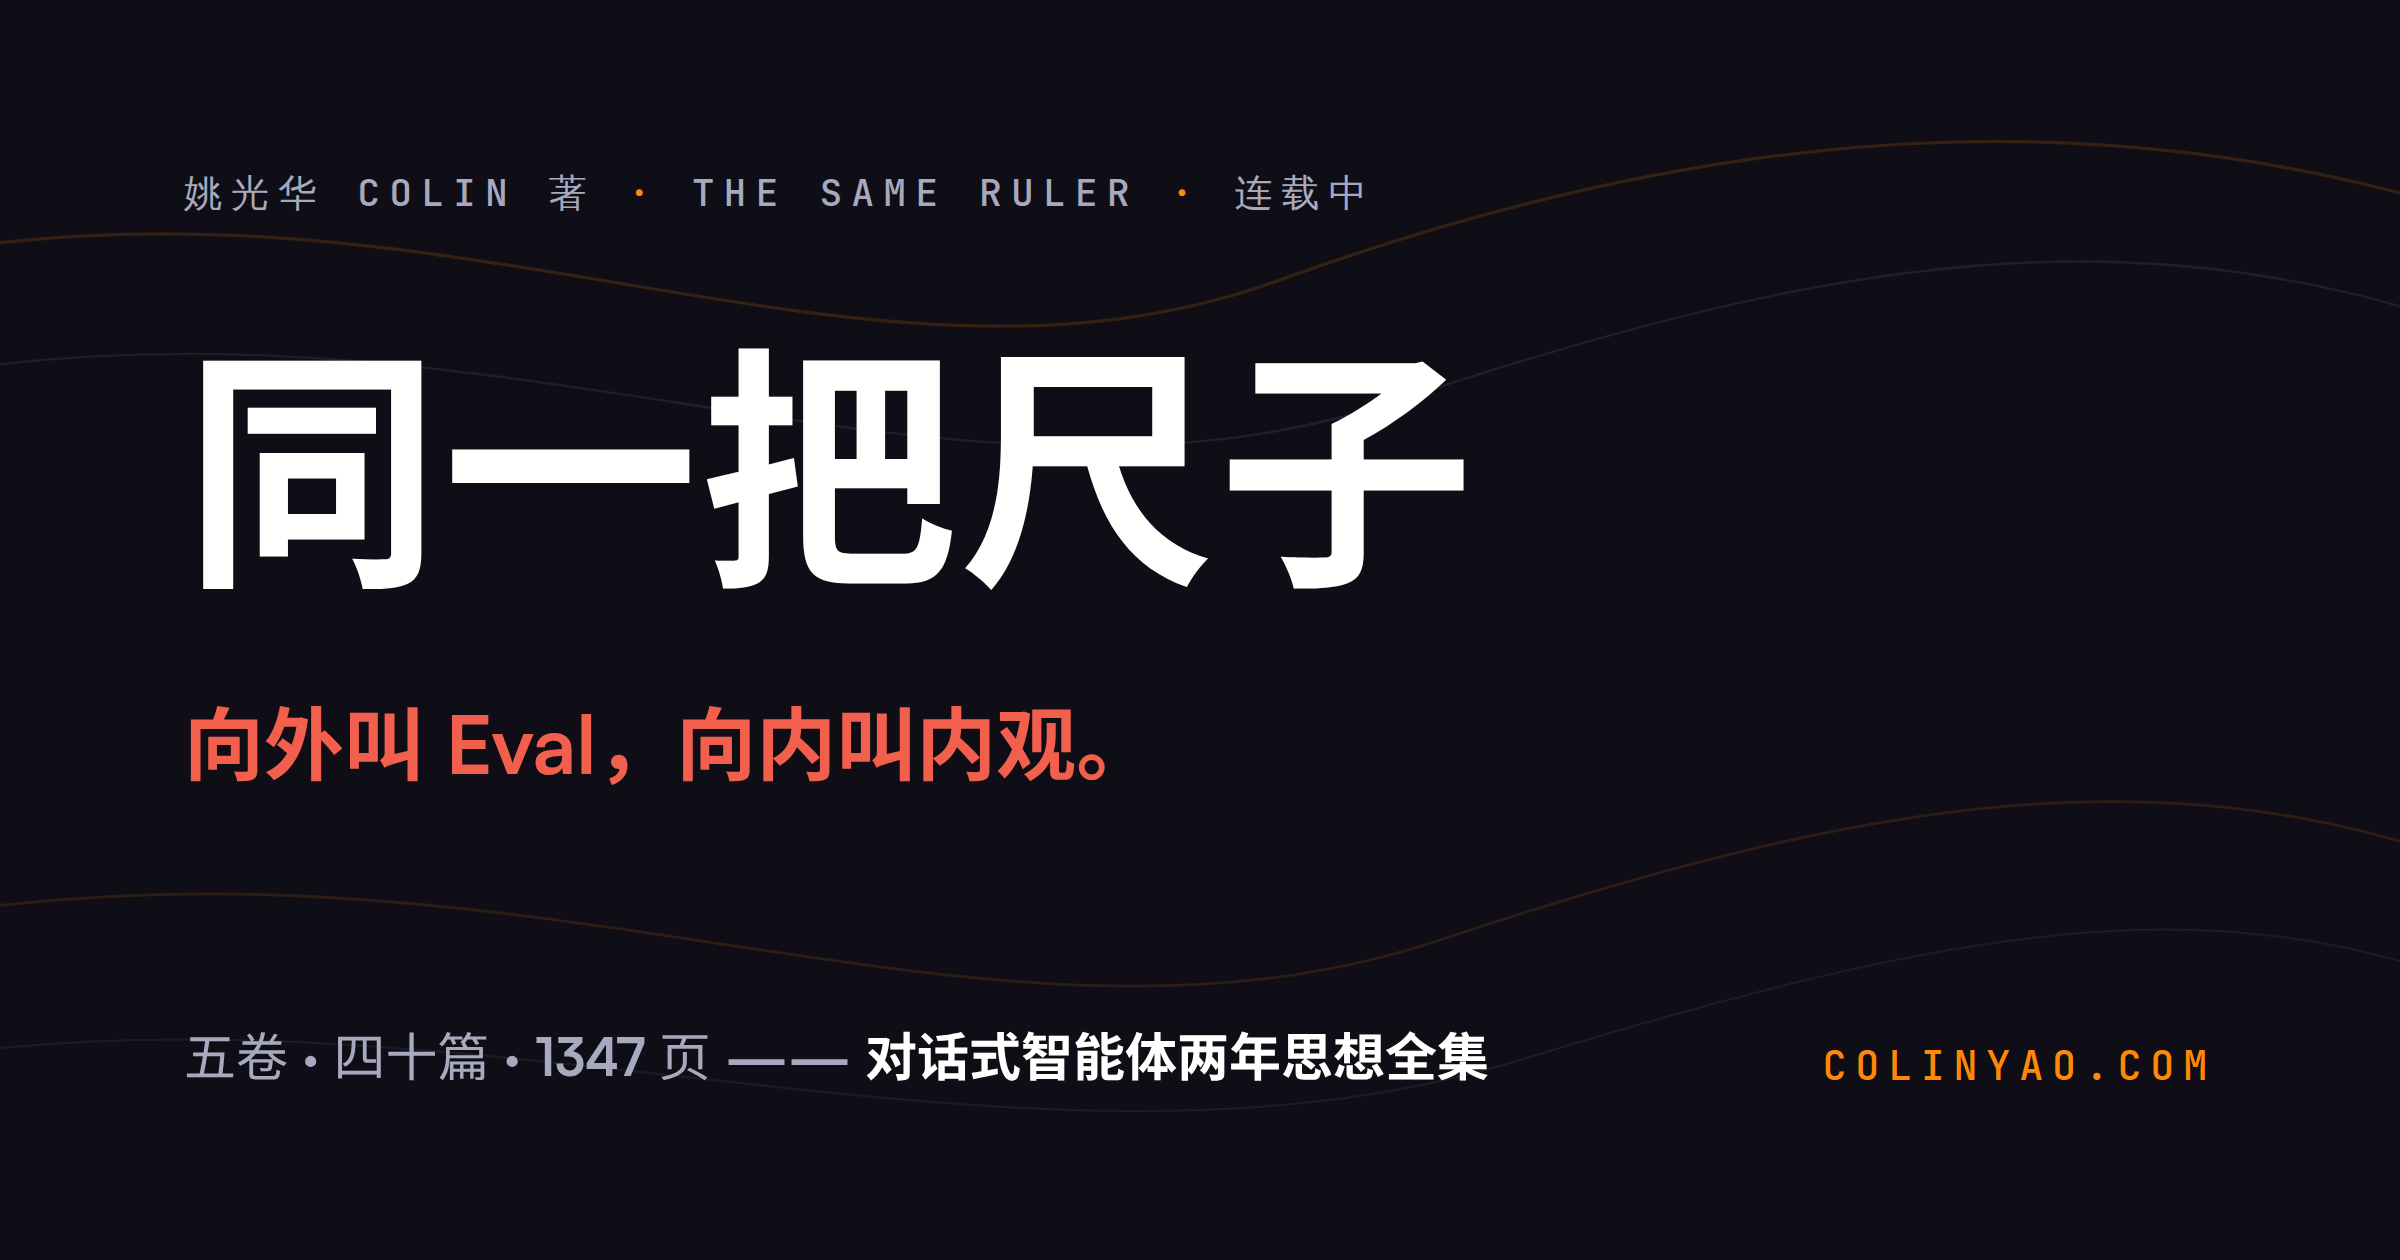
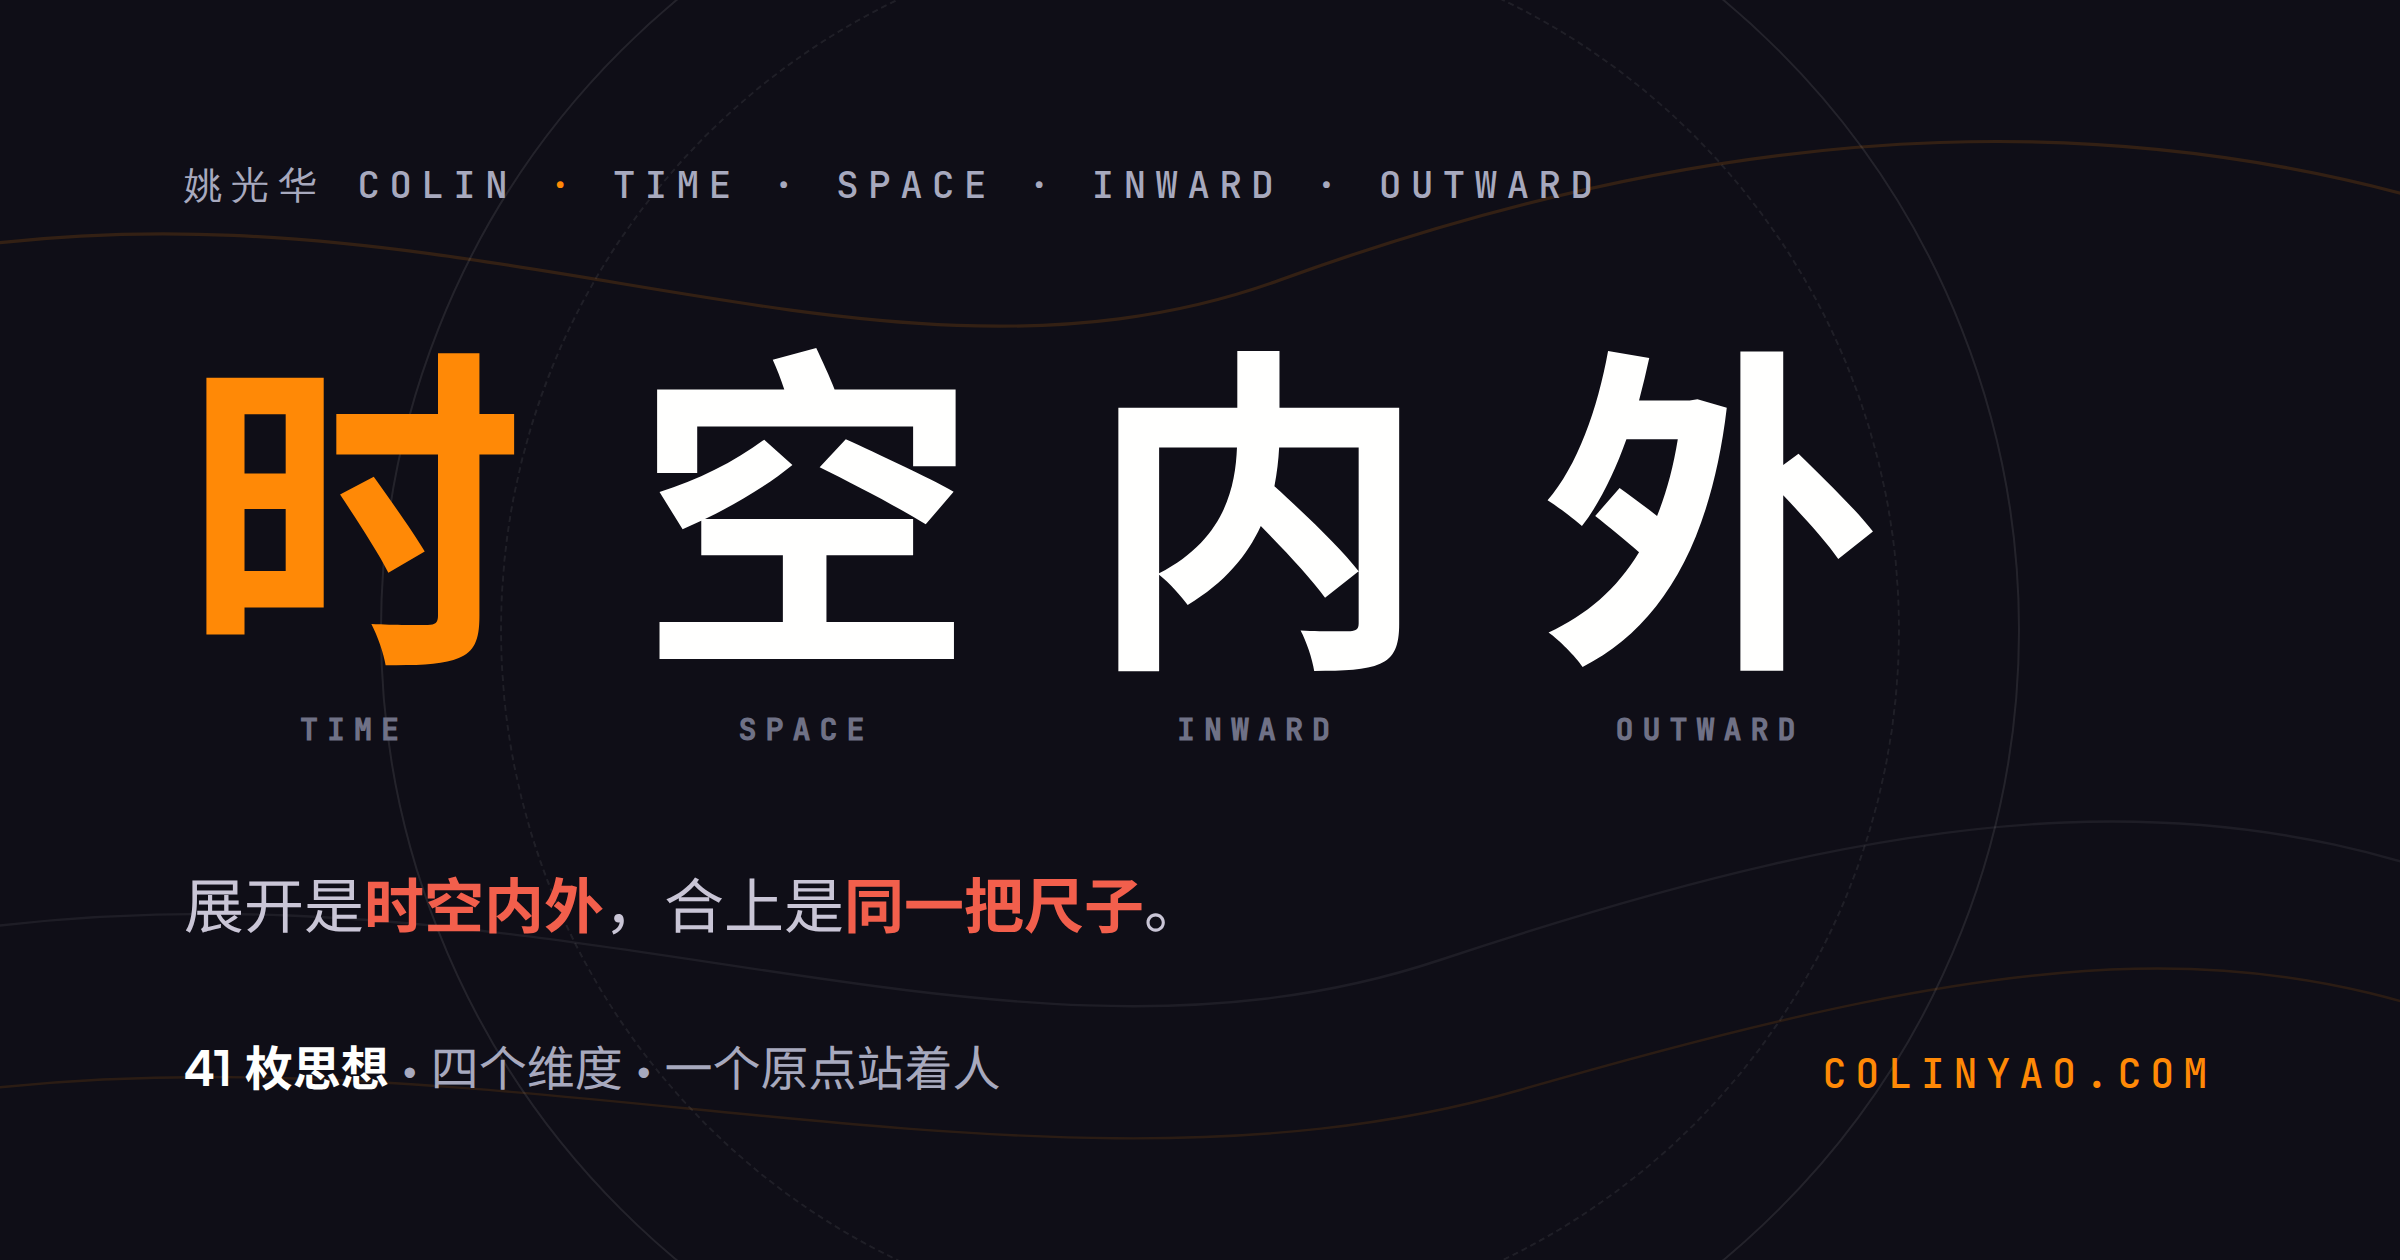
活页→展开 · UP NEXT 换 V10 全称 · OG 重绘时空内外四字构图
Claude-Session: https://claude.ai/code/session_0129eRjYjscyEeoKgxzrzxeL

diff --git a/components/RulerScroll.tsx b/components/RulerScroll.tsx
@@ -106,7 +106,7 @@ export default function RulerScroll() {
 
         {/* 首焦标题（待机时可见） */}
         <div className={`rs-head ${atTop ? "on" : ""}`}>
-          <p className="eyebrow">活页 <span className="am">·</span> {rulerMeta.en}</p>
+          <p className="eyebrow">展开 <span className="am">·</span> {rulerMeta.en}</p>
           <h1 className="rs-title">{rulerMeta.title}</h1>
           <p className="rs-sub">
             <b>时</b>，从毫秒到纪元；<b>空</b>，从一场对话到全人类；<b>内</b>，内观的纵深；<b>外</b>，Eval 的粒度。

diff --git a/content/talks.ts b/content/talks.ts
@@ -15,7 +15,7 @@ export type Talk = {
 export const upcoming = {
   date: "2026.08",
   venue: "人人都是产品经理 · AI 产品经理大会",
-  title: "对话式智能体的信任进化",
+  title: "从「被托付」到「双向奔赴 · 共事」· 对话式智能体的信任进化",
   summary:
     "信任的尺子 × 四次 PM 跃迁。「同一把尺子，向外叫 Eval，向内叫内观」将在这场演讲首次上台——它已经先在这里落了户。",
 };

diff --git a/content/ruler.ts b/content/ruler.ts
@@ -40,7 +40,6 @@ export type Ray = {
 export const rulerMeta = {
   title: "时空内外",
   subtitle: "四把尺子",
-  sub: "活页 · 展开于《同一把尺子》",
   en: "TIME · SPACE · INWARD · OUTWARD",
   origin: "人",
   originNote: "原点站着人 · 你在这里",
